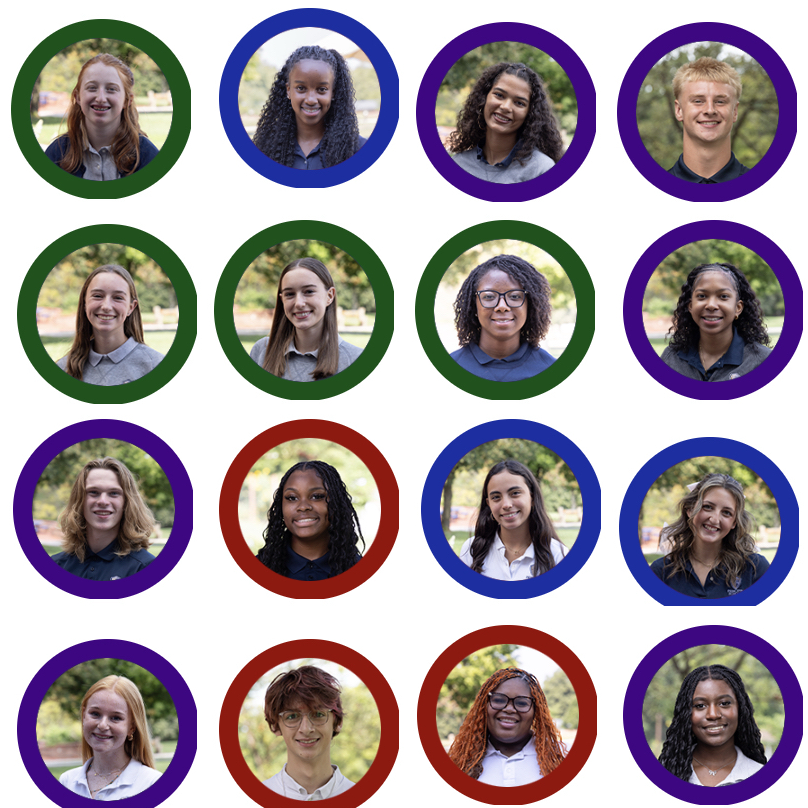
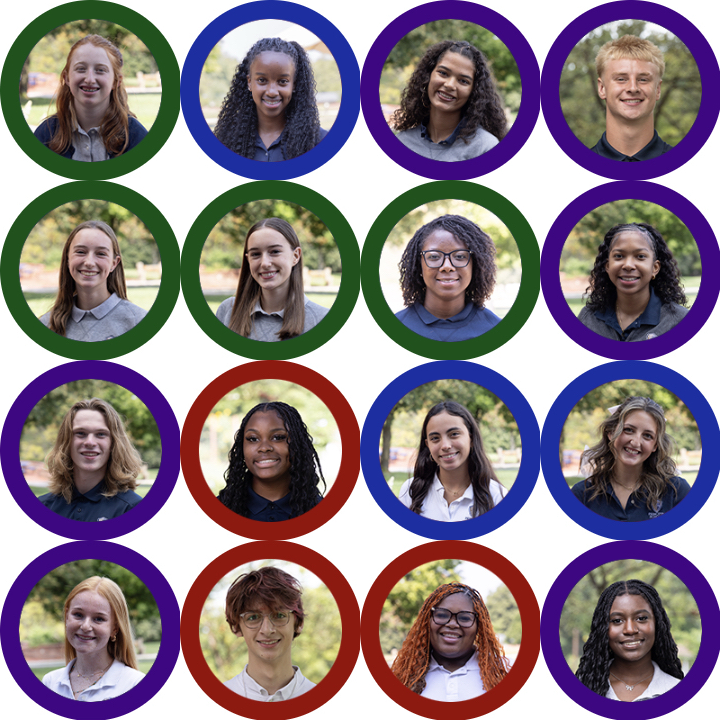
Show teacher messages as live student popups

diff --git a/index.html b/index.html
@@ -131,10 +131,12 @@
     .teacher-link { display: inline-flex; align-items: center; gap: 9px; border: 0; background: none; color: var(--muted); font-weight: 800; cursor: pointer; padding: 12px 16px; }
     .teacher-link:hover { color: var(--ink); }
     #settingsButton, .teacher-entry { display: none; }
-    .teacher-message { margin: 0 0 16px; padding: 15px; border: 1px solid rgba(129,217,233,.4); border-radius: 17px; background: rgba(129,217,233,.11); }
-    .teacher-message strong { display: block; color: var(--sky); margin-bottom: 5px; }
-    .teacher-message p { margin: 0 0 11px; line-height: 1.45; }
-    .teacher-message button { min-height: 38px; }
+    .message-dialog { width: min(90vw, 430px); }
+    .message-dialog .dialog-head { background: rgba(129,217,233,.09); }
+    .message-label { display: inline-flex; align-items: center; gap: 8px; margin: 0 0 12px; color: var(--sky); font-size: .78rem; font-weight: 850; letter-spacing: .08em; text-transform: uppercase; }
+    .message-label::before { content: ""; width: 9px; height: 9px; border-radius: 50%; background: var(--sky); box-shadow: 0 0 0 6px rgba(129,217,233,.1); }
+    .message-copy { margin: 0; color: var(--ink) !important; font-size: 1.12rem; line-height: 1.55 !important; white-space: pre-wrap; overflow-wrap: anywhere; }
+    .message-dialog .dialog-actions .btn { width: 100%; }
     .location-line { display: flex; align-items: center; gap: 6px; margin-top: 5px; color: var(--sky); font-size: .75rem; font-weight: 750; }
     .teacher-dialog { width: min(94vw, 980px); }
     .teacher-summary { display: grid; grid-template-columns: repeat(3, 1fr); gap: 10px; margin-bottom: 18px; }
@@ -238,11 +240,6 @@
           <div class="status-copy"><strong id="statusTitle">Not checked out</strong><span id="statusDetail">No active field trip</span></div>
           <div class="timer" id="timer">30:00</div>
         </div>
-        <div class="teacher-message" id="teacherMessage" hidden>
-          <strong>Message from your teacher</strong>
-          <p id="teacherMessageText"></p>
-          <button class="btn" id="markMessageSeen">Mark as seen</button>
-        </div>
         <div class="location-line" id="locationLine" hidden>
           <svg width="14" height="14" viewBox="0 0 24 24" fill="none" aria-hidden="true"><path d="M20 10c0 5-8 12-8 12S4 15 4 10a8 8 0 1 1 16 0Z" stroke="currentColor" stroke-width="1.8"/><circle cx="12" cy="10" r="2.5" stroke="currentColor" stroke-width="1.8"/></svg>
           <span id="locationText">Location captured</span>
@@ -305,7 +302,7 @@
   <dialog id="settingsDialog">
     <div class="dialog-head"><h3>Teacher setup</h3><button class="icon-button" data-close aria-label="Close">×</button></div>
     <div class="dialog-body">
-      <p>Connect this app to a Google Sheet once. Every student tap becomes a timestamped row, and the teacher dashboard checks the Sheet for new activity every five seconds.</p>
+      <p>Connect this app to a Google Sheet once. Every student tap becomes a timestamped row, and the dashboards check automatically for new activity and messages.</p>
       <label>Google Apps Script web app URL
         <input id="webhookUrl" type="text" inputmode="url" autocomplete="off" autocapitalize="none" spellcheck="false" placeholder="https://script.google.com/macros/s/…/exec">
       </label>
@@ -329,6 +326,15 @@
         <button class="btn" id="notificationsButton">Enable student reminders</button>
         <button class="btn danger" id="resetButton">Reset this device</button>
       </div>
+    </div>
+  </dialog>
+
+  <dialog id="teacherMessageDialog" class="message-dialog" aria-labelledby="teacherMessageTitle">
+    <div class="dialog-head"><h3 id="teacherMessageTitle">Message from your teacher</h3><button class="icon-button" id="dismissTeacherMessage" aria-label="Close message">×</button></div>
+    <div class="dialog-body">
+      <div class="message-label">New message</div>
+      <p class="message-copy" id="teacherMessageText"></p>
+      <div class="dialog-actions"><button class="btn primary" id="acknowledgeTeacherMessage">Got it</button></div>
     </div>
   </dialog>
 
@@ -384,6 +390,8 @@
     ensureTeacherKey();
     let toastTimer;
     let teacherPollTimer = null;
+    let studentPollTimer = null;
+    let studentUpdateLoading = false;
     let teacherLoading = false;
     let teacherEventSignature = "";
 
@@ -395,7 +403,7 @@
       settings: $("#settingsDialog"), install: $("#installDialog"), webhook: $("#webhookUrl"), teacherKey: $("#teacherKey"),
       connection: $("#connectionStatus"), teacherLogin: $("#teacherLoginDialog"), teacher: $("#teacherDialog"), teacherRows: $("#teacherRows"),
       locationLine: $("#locationLine"), locationText: $("#locationText"), ready: $("#studentReadyDialog"),
-      teacherMessage: $("#teacherMessage"), teacherMessageText: $("#teacherMessageText")
+      teacherMessage: $("#teacherMessageDialog"), teacherMessageText: $("#teacherMessageText")
     };
     const builtInStudents = [...els.name.options].map((option) => option.value).filter(Boolean);
 
@@ -457,23 +465,42 @@
 
     let displayedMessageId = "";
     async function loadStudentUpdates() {
+      if (studentUpdateLoading) return;
+      studentUpdateLoading = true;
       try {
         const currentStudent = els.name.value || state.student || "";
         const response = await fetch(`${state.webhookUrl}?view=student&student=${encodeURIComponent(currentStudent)}&t=${Date.now()}`, { cache: "no-store" });
         const data = await response.json();
+        if (data.error) throw new Error(data.error);
         updateStudentRoster(data.students);
         const student = els.name.value || state.student;
         const messages = (Array.isArray(data.messages) ? data.messages : []).filter((item) => item.recipient === "Everyone" || (student && item.recipient === student));
         const newest = messages[messages.length - 1];
-        if (!newest || newest.id === state.lastSeenMessageId) { els.teacherMessage.hidden = true; return; }
+        if (!newest || newest.id === state.lastSeenMessageId) { if (els.teacherMessage.open) els.teacherMessage.close(); return; }
         els.teacherMessageText.textContent = newest.message;
         els.teacherMessage.dataset.messageId = newest.id;
-        els.teacherMessage.hidden = false;
         if (displayedMessageId !== newest.id) {
           displayedMessageId = newest.id;
+          if (!els.teacherMessage.open) els.teacherMessage.showModal();
           if ("Notification" in window && Notification.permission === "granted") new Notification("Message from your teacher", { body: newest.message, icon: "./icon.svg", tag: `fnh-message-${newest.id}` });
         }
       } catch { /* Keep check-in available while the shared service reconnects. */ }
+      finally { studentUpdateLoading = false; }
+    }
+
+    function startStudentPolling() {
+      clearTimeout(studentPollTimer);
+      const poll = async () => {
+        if (document.visibilityState === "visible") await loadStudentUpdates();
+        studentPollTimer = setTimeout(poll, 1500);
+      };
+      poll();
+    }
+
+    function dismissTeacherMessage() {
+      state.lastSeenMessageId = els.teacherMessage.dataset.messageId || "";
+      saveState();
+      if (els.teacherMessage.open) els.teacherMessage.close();
     }
 
     function render() {
@@ -859,11 +886,9 @@ function doGet(e) {
     $("#notificationsButton").addEventListener("click", requestNotifications);
     $("#enableStudentPermissions").addEventListener("click", requestLaunchPermissions);
     $("#continueWithoutPermissions").addEventListener("click", () => els.ready.close());
-    $("#markMessageSeen").addEventListener("click", () => {
-      state.lastSeenMessageId = els.teacherMessage.dataset.messageId || "";
-      els.teacherMessage.hidden = true;
-      saveState();
-    });
+    $("#dismissTeacherMessage").addEventListener("click", dismissTeacherMessage);
+    $("#acknowledgeTeacherMessage").addEventListener("click", dismissTeacherMessage);
+    els.teacherMessage.addEventListener("cancel", (event) => event.preventDefault());
     $("#appsScript").textContent = buildScriptCode();
     $("#copyCode").addEventListener("click", async () => {
       const key = els.teacherKey.value.trim();
@@ -951,12 +976,11 @@ function doGet(e) {
     els.destination.addEventListener("change", () => { if (state.status === "idle") { state.destination = els.destination.value.trim(); saveState(); } });
     window.addEventListener("online", flushQueue);
     setInterval(updateTimer, 1000);
-    setInterval(() => { if (document.visibilityState === "visible") loadStudentUpdates(); }, 5000);
     if ("serviceWorker" in navigator) navigator.serviceWorker.register("./sw.js").catch(() => {});
     installSharedConfigFromLink();
     render();
     flushQueue();
-    loadStudentUpdates();
+    startStudentPolling();
     setTimeout(() => { if (!els.ready.open) els.ready.showModal(); }, 250);
   </script>
 </body>

diff --git a/sw.js b/sw.js
@@ -1,4 +1,4 @@
-const CACHE = "fnh-field-check-github-v16";
+const CACHE = "fnh-field-check-github-v17";
 const ASSETS = ["./", "./index.html", "./teacher.html", "./manifest.webmanifest", "./icon.svg", "./assets/student-portraits.png"];
 
 self.addEventListener("install", (event) => {
